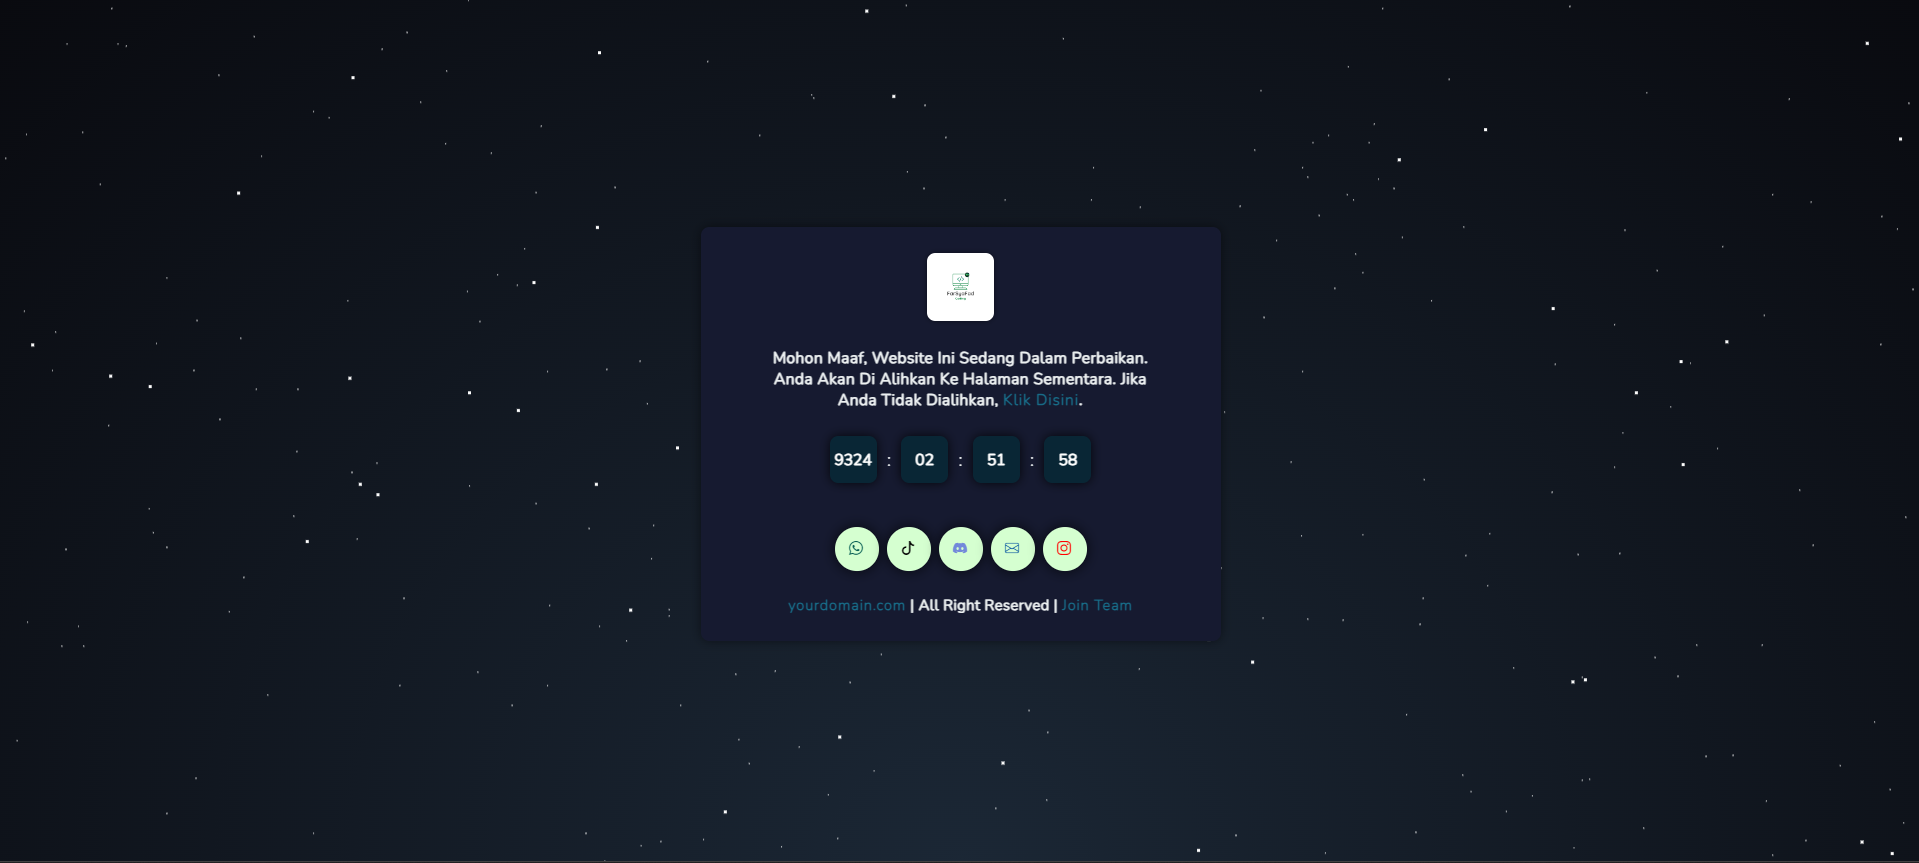
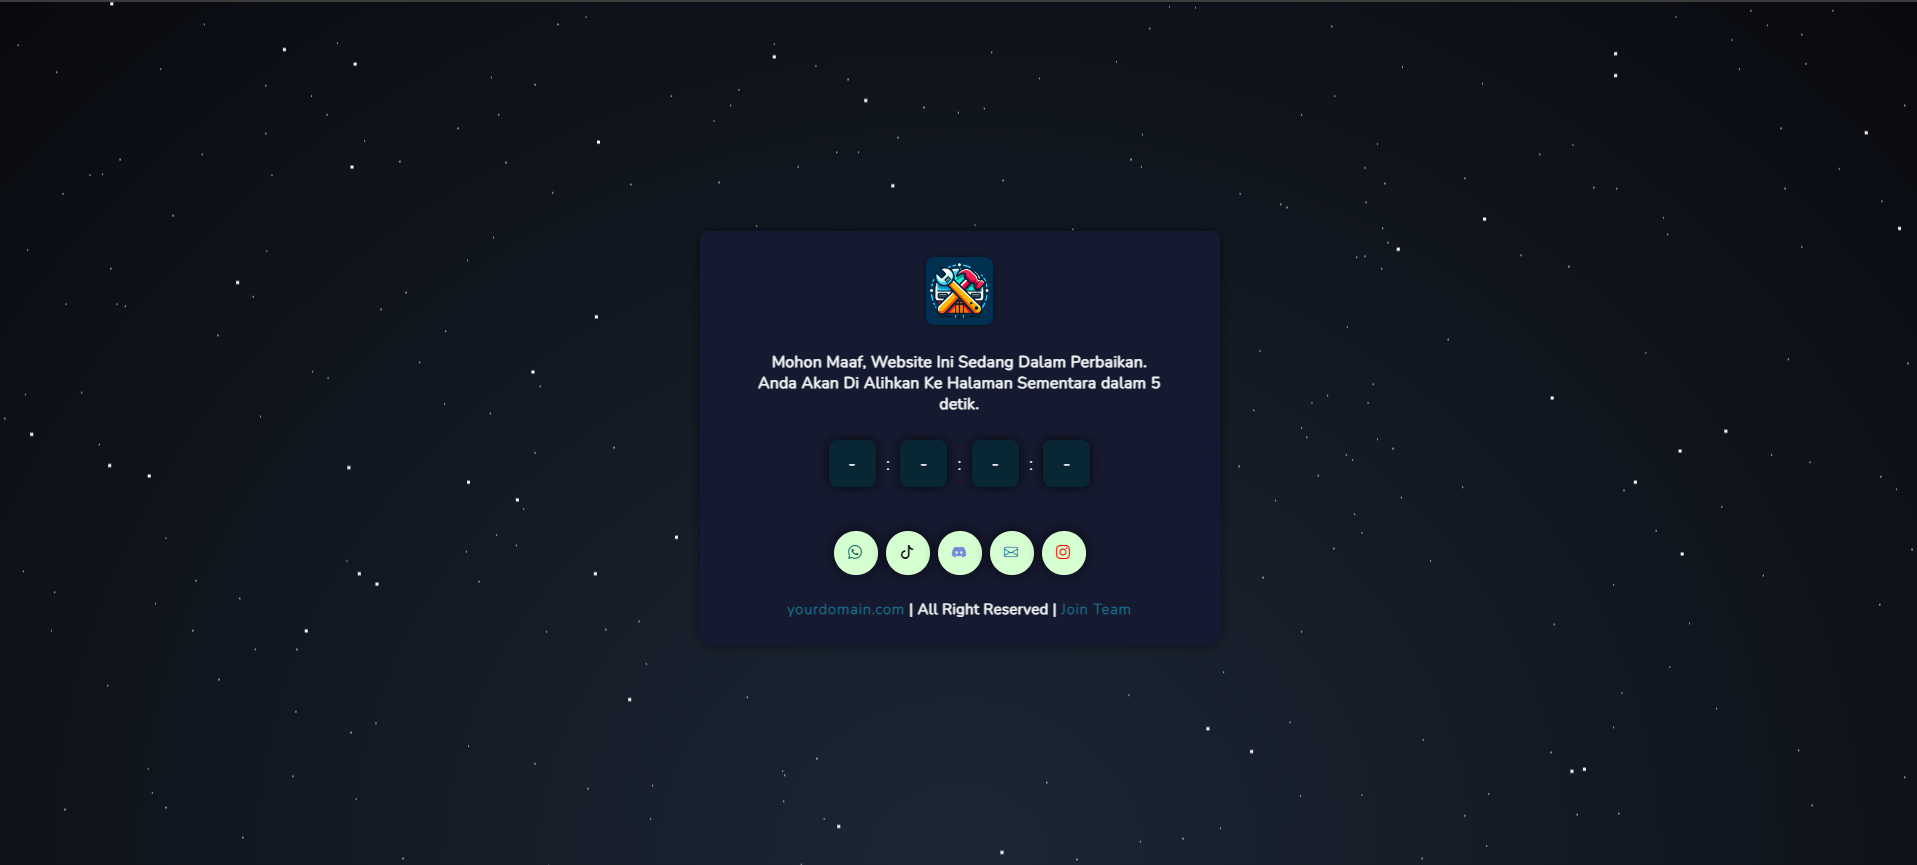
update

diff --git a/js/script.js b/js/script.js
@@ -1,26 +1,26 @@
-endDate = new Date("January 01, 2050 00:00:00").getTime();
-const x = setInterval(function () {
-    const now = new Date().getTime();
-    const distance = endDate - now;
-    const days = Math.floor(distance / (1000 * 60 * 60 * 24));
-    const hours = Math.floor(
-        (distance % (1000 * 60 * 60 * 24)) / (1000 * 60 * 60)
-    );
-    const minutes = Math.floor((distance % (1000 * 60 * 60)) / (1000 * 60));
-    const seconds = Math.floor((distance % (1000 * 60)) / 1000);
-    document.getElementById("days").innerHTML = days.toString().padStart(2, "0");
-    document.getElementById("hours").innerHTML = hours
-        .toString()
-        .padStart(2, "0");
-    document.getElementById("minutes").innerHTML = minutes
-        .toString()
-        .padStart(2, "0");
-    document.getElementById("seconds").innerHTML = seconds
-        .toString()
-        .padStart(2, "0");
+// endDate = new Date("January 01, 2050 00:00:00").getTime();
+// const x = setInterval(function () {
+//     const now = new Date().getTime();
+//     const distance = endDate - now;
+//     const days = Math.floor(distance / (1000 * 60 * 60 * 24));
+//     const hours = Math.floor(
+//         (distance % (1000 * 60 * 60 * 24)) / (1000 * 60 * 60)
+//     );
+//     const minutes = Math.floor((distance % (1000 * 60 * 60)) / (1000 * 60));
+//     const seconds = Math.floor((distance % (1000 * 60)) / 1000);
+//     document.getElementById("days").innerHTML = days.toString().padStart(2, "0");
+//     document.getElementById("hours").innerHTML = hours
+//         .toString()
+//         .padStart(2, "0");
+//     document.getElementById("minutes").innerHTML = minutes
+//         .toString()
+//         .padStart(2, "0");
+//     document.getElementById("seconds").innerHTML = seconds
+//         .toString()
+//         .padStart(2, "0");
 
-    if (distance < 0) {
-        clearInterval(x);
-        document.getElementById("countdown").innerHTML = "Waktu sudah habis!";
-    }
-}, 1000);
+//     if (distance < 0) {
+//         clearInterval(x);
+//         document.getElementById("countdown").innerHTML = "Waktu sudah habis!";
+//     }
+// }, 1000);

diff --git a/index.html b/index.html
@@ -6,10 +6,12 @@
     <meta http-equiv="X-UA-Compatible" content="ie=edge">
     <meta http-equiv="X-UA-Compatible" content="IE=edge">
     <meta name="viewport" content="width=device-width, initial-scale=1, shrink-to-fit=no">
-    <link rel="shortcut icon" href="https://farsyafad.tech/images/logo.jpg" type="image/x-icon">
+
+    <title>Website Sedang Dalam Perbaikan  |  Template Website Under Construction</title>
+
     <link rel="stylesheet" href="/css/style.css">
+    <link rel="shortcut icon" href="image/logo.jpeg" type="image/x-icon">
     <link rel="stylesheet" href="https://cdn.jsdelivr.net/npm/bootstrap-icons@1.11.2/font/bootstrap-icons.min.css">
-    <title>Redirecting... | Coming Soon | Under Construction</title>
 </head>
 
 <body>
@@ -19,7 +21,7 @@
     <div class="stars3" aria-hidden="true"></div>
     <main class="main">
         <section class="info">
-            <img src="https://farsyafad.tech/images/logo-farsyafad-coding.png" alt="Logo FarSyaFad Code New">
+            <img src="image/logo.jpeg" alt="Logo FarSyaFad Code New">
             <p class="pengumuman">Mohon Maaf, Website Ini Sedang Dalam Perbaikan. Anda Akan Di Alihkan Ke Halaman
                 Sementara<span id="countdown"> dalam -- Detik</span>.</p>
             <div class="time-countdown">

diff --git a/js/redirect.js b/js/redirect.js
@@ -1,5 +1,6 @@
 const timer = document.getElementById('countdown');
 timer.textContent = " dalam 7 detik";
+
 function startCountdown() {
     let count = 7;
     const interval = setInterval(() => {
@@ -8,11 +9,12 @@ function startCountdown() {
         if (count < 0) {
             clearInterval(interval);
             timer.innerHTML = ". Jika Anda Tidak Dialihkan, <a href='/'>Klik Disini</a>";
-            redirect()
+            redirect();
         }
     }, 1000);
 }
+
 function redirect() {
-    window.open("https://yoursite.com");
+    window.location.href = "https://yoursite.com";
 }
 startCountdown();

diff --git a/readme.md b/readme.md
@@ -1,7 +1,7 @@
 <h2>Simple Under Construction Page</h2>
 <hr/>
-<h6>Preview Halaman / Website :</h6>
-<img src="image/img-thumb.png">
+<h4>Preview Halaman / Website :</h4>
+<img src="image/img-thumb.png" style="border-radius: 18px;box-shadow: 0 0 5px 2px rgba(0, 0, 0, .75);">
 <hr/>
 <h4>Bahasa Pemrograman Yang Digunakan :</h4>
 <ul>
@@ -12,9 +12,10 @@
 <hr/>
 <h4>Cara Menggunakan Template Ini :</h4>
 <ol>
-<li>Ubah File Javascript Pada Folder JS ( Redirect & Script.js )</li>
-<li>File Redirect.js Berfungsi Untuk Mengatur Timer Hitung Mundur Dan Link Tujuan Halaman Setelah Hitungan Mundur Selesai</li>
-<li>FIle Script.js Berfungsi Untuk Mengatur Waktu Mundur Sampai Halaman Aslinya Selesai / Rilis</li>
+<li>Ubah Dan Sesuaikan File Javascript Pada Folder JS ( Redirect & Script.js )</li>
+<li>File redirect.js Berfungsi Untuk Mengatur Timer Hitung Mundur Dan Link Tujuan Halaman Setelah Hitungan Mundur Selesai</li>
+<li>FIle script.js Berfungsi Untuk Mengatur Waktu Mundur Sampai Halaman Aslinya Selesai / Rilis</li>
 </ol>
+<p style="font-style: italic;font-weight: bold;margin-top: 25px;">Note : Jangan Lupa Hapus Komentar Pada File script.js</p>
 <hr/>
-<i>Powered By Farsyafad Tech</i>
+<p style="font-family: monospace;font-weight: bold;letter-spacing: .75px;font-size: 13.5px;">Powered By Farsyafad Tech  |  Jangan Lupa Kasih Star Yaa</p>
